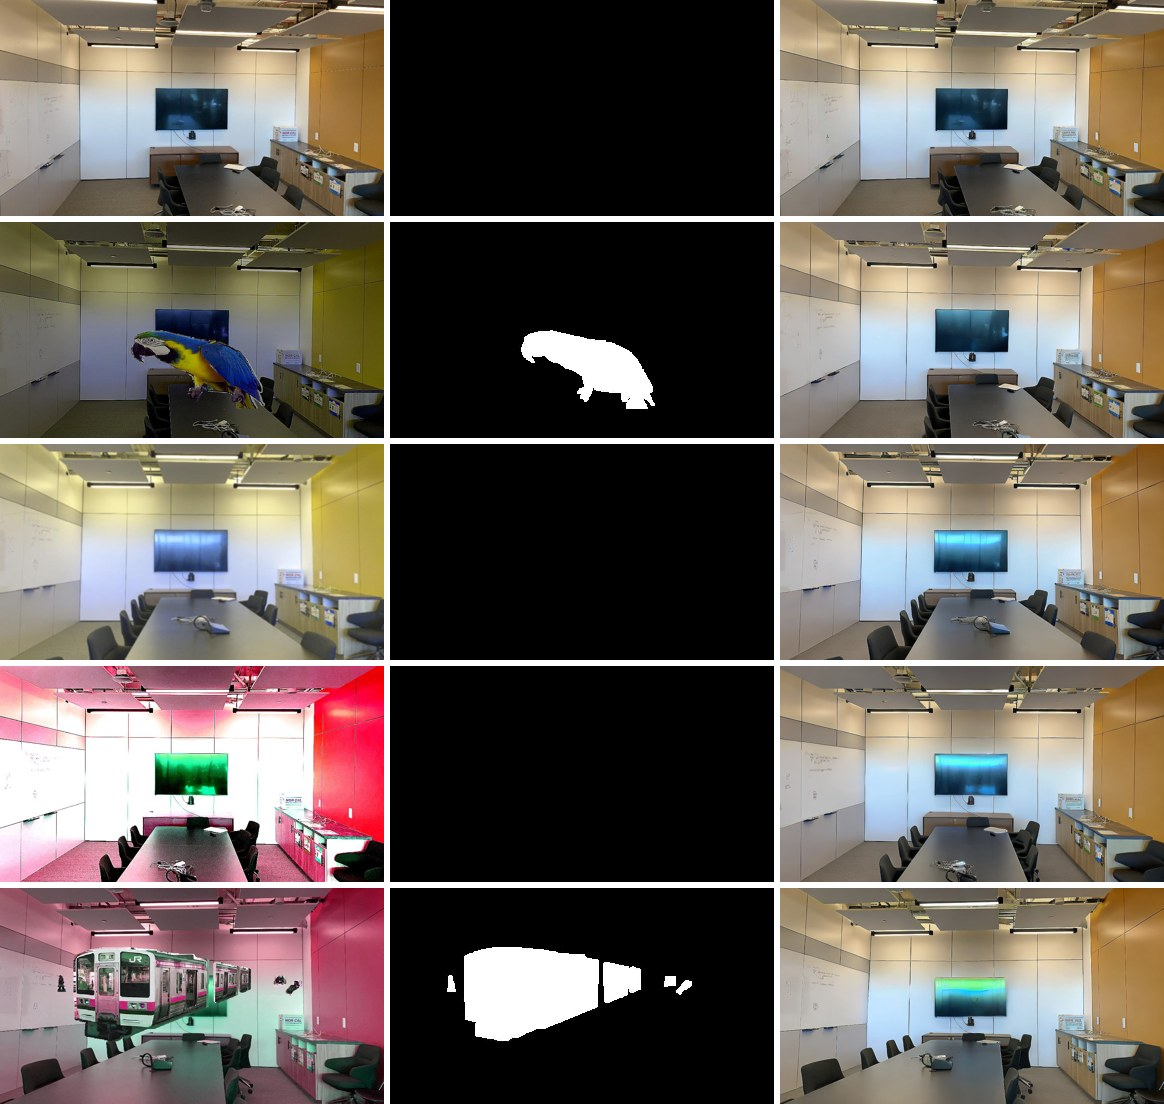
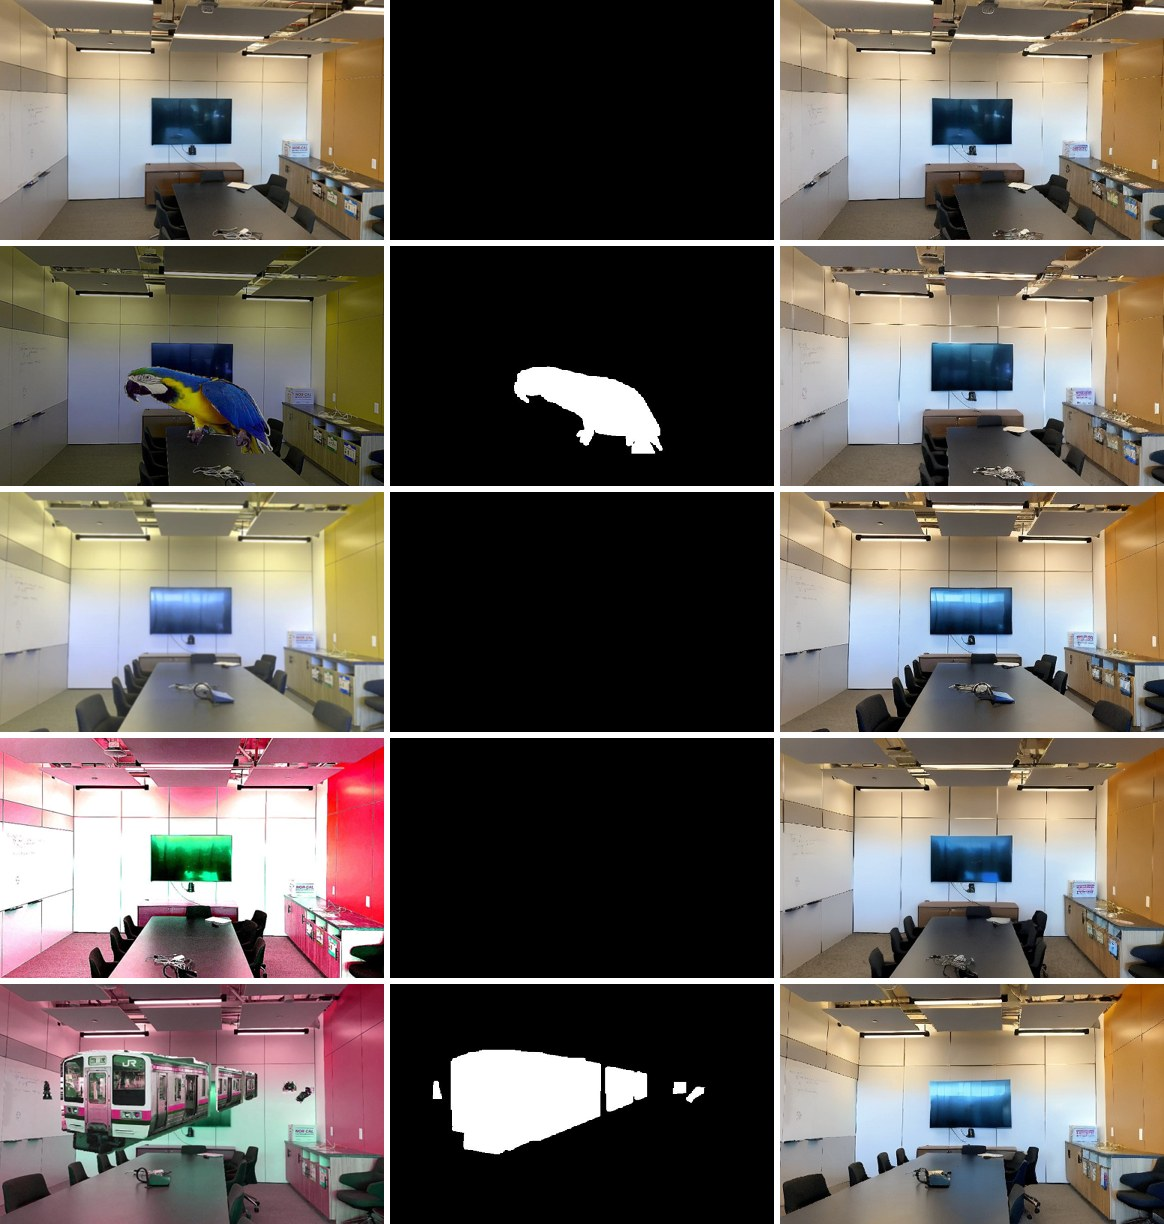
Release the stage-1 (320x512) checkpoint only
Only the stage-1 UniVerse model (320x512) is released on
huggingface.co/TmaKiss/UniVerse; it is now the default model and is
downloaded automatically. The 576x1024 preset remains for stage-2
checkpoints trained with the release code (--model 1024 --ckpt ...).
The readme and the demo figure are updated accordingly.

Claude-Session: https://claude.ai/code/session_017xyDMHhJAyWzsYBCbdkBYV

diff --git a/inference.py b/inference.py
@@ -59,9 +59,10 @@ ROOT = os.path.dirname(os.path.abspath(__file__))
 IMAGE_EXTS = ('.jpg', '.jpeg', '.png', '.bmp', '.tif', '.tiff', '.webp')
 DEFAULT_PROMPT = 'A consistent scene captured using a continuous camera trajectory'
 HF_REPO = 'TmaKiss/UniVerse'  # https://huggingface.co/TmaKiss/UniVerse
+# Only the stage-1 (320x512) model is released; the 576x1024 preset is for your own stage-2 checkpoints.
 MODEL_PRESETS = {
-    '512': dict(config='configs/inference_512.yaml', ckpt='checkpoints/universe_512.ckpt'),
-    '1024': dict(config='configs/inference_1024.yaml', ckpt='checkpoints/universe_1024.ckpt'),
+    '512': dict(config='configs/inference_512.yaml', ckpt='checkpoints/universe_512.ckpt', released=True),
+    '1024': dict(config='configs/inference_1024.yaml', ckpt='checkpoints/universe_1024.ckpt', released=False),
 }
 
 
@@ -739,8 +740,8 @@ def get_parser():
     parser.add_argument('--no_video', action='store_true',
                         help='Do not save the per-iteration videos and restored.mp4.')
     # model
-    parser.add_argument('--model', type=str, default='1024', choices=list(MODEL_PRESETS),
-                        help='576x1024 (stage 2, final) or 320x512 (stage 1, faster) model.')
+    parser.add_argument('--model', type=str, default='512', choices=list(MODEL_PRESETS),
+                        help='320x512 model (released), or 576x1024 for a stage-2 checkpoint you trained (--ckpt).')
     parser.add_argument('--config', type=str, default=None, help='Model config (default: from --model).')
     parser.add_argument('--ckpt', type=str, default=None, help='Model checkpoint (default: from --model).')
     parser.add_argument('--height', type=int, default=None, help='Default: from the config (multiple of 64).')
@@ -829,10 +830,13 @@ def main():
     try:
         import xformers  # noqa: F401
     except ImportError:
-        print('Warning: xformers is not installed; without memory-efficient attention UniVerse-1024 needs '
-              'more than 48 GB of GPU memory (pip install xformers==0.0.16).')
+        print('Warning: xformers is not installed; without memory-efficient attention UniVerse needs more GPU '
+              'memory (about 18 GB instead of 14 GB at 320x512; pip install xformers==0.0.16).')
 
     if not os.path.exists(opts.ckpt):  # released checkpoint, downloaded on first use
+        if not MODEL_PRESETS[opts.model]['released']:
+            raise FileNotFoundError(f'The {opts.model} model is not released: train it (see README, "Training") '
+                                    f'and pass its checkpoint with --ckpt.')
         opts.ckpt = download_checkpoint(opts.ckpt)
 
     os.makedirs(opts.out_dir, exist_ok=True)

diff --git a/readme.md b/readme.md
@@ -69,30 +69,27 @@ pip install -r requirements.txt          # inference (includes xformers 0.0.16)
 pip install -r requirements-train.txt    # optional: training
 ```
 
-xformers (memory-efficient attention) is required for UniVerse-1024 on 48 GB GPUs; the memory figures
-below assume it.
+xformers provides memory-efficient attention; the memory figures below assume it.
 
 ## Checkpoints
 
-UniVerse is one video diffusion model, released at the end of each of its two training stages:
-
 | Model | Resolution | Training | Inference GPU memory | Checkpoint |
 |---|---|---|---|---|
-| UniVerse-1024 (default) | 576 x 1024 | stage 2, 12,000 iterations | ~28 GB | [`universe_1024.ckpt`](https://huggingface.co/TmaKiss/UniVerse/blob/main/universe_1024.ckpt) |
 | UniVerse-512 | 320 x 512 | stage 1, 14,520 iterations | ~14 GB | [`universe_512.ckpt`](https://huggingface.co/TmaKiss/UniVerse/blob/main/universe_512.ckpt) |
 
 The weights are hosted at [huggingface.co/TmaKiss/UniVerse](https://huggingface.co/TmaKiss/UniVerse).
-`inference.py` downloads the checkpoint of the selected model into `checkpoints/` on first use; to
-download them beforehand:
+`inference.py` downloads them into `checkpoints/` on first use; to download them beforehand:
 
 ```bash
-hf download TmaKiss/UniVerse universe_1024.ckpt universe_512.ckpt --local-dir checkpoints
+hf download TmaKiss/UniVerse universe_512.ckpt --local-dir checkpoints
 ```
 
-Each checkpoint (10.4 GB) contains all the weights, including the VAE and the OpenCLIP ViT-H/14
-encoders, so nothing else is downloaded.
+The checkpoint (10.4 GB) contains all the weights, including the VAE and the OpenCLIP ViT-H/14
+encoders, so nothing else is downloaded. The 576 x 1024 model of the second training stage is not
+released; `configs/inference_1024.yaml` (`--model 1024 --ckpt <checkpoint>`) runs a stage-2 model that
+you train yourself (see [Training](#training)).
 
-The models are fine-tuned from ViewCrafter's `ViewCrafter_25_sparse` (Apache-2.0), contain the
+The model is fine-tuned from ViewCrafter's `ViewCrafter_25_sparse` (Apache-2.0), contain the
 OpenCLIP ViT-H/14 weights trained on LAION-2B (MIT), and were trained on
 [DL3DV-10K](https://github.com/DL3DV-10K/Dataset), which is released for non-commercial use
 (CC BY-NC 4.0); please also respect the terms of these sources.
@@ -100,13 +97,11 @@ OpenCLIP ViT-H/14 weights trained on LAION-2B (MIT), and were trained on
 ## Quick start
 
 ```bash
-python inference.py --image_dir data/demo/images --out_dir output/demo                 # UniVerse-1024
-python inference.py --image_dir data/demo/images --out_dir output/demo_512 --model 512  # UniVerse-512
+python inference.py --image_dir data/demo/images --out_dir output/demo
 ```
 
 The first run downloads the checkpoint (10.4 GB). On one L40S, the demo (a single batch) then takes
-about 1.5 min with UniVerse-512 and about 4 min with UniVerse-1024, including about 0.5-2 min to load
-the model.
+about 1.5 min, including about 0.5-1 min to load the model.
 
 ## Restoring your own scene
 
@@ -139,7 +134,7 @@ Main options (`python inference.py -h` lists all of them):
 
 | Option | Default | Description |
 |---|---|---|
-| `--model {1024,512}` | `1024` | model preset (config, checkpoint and resolution) |
+| `--model {512,1024}` | `512` | model preset (config, checkpoint and resolution); 1024 needs your own `--ckpt` |
 | `--ckpt`, `--config` | from `--model` | checkpoint / config |
 | `--mask_dir` | `<scene>/masks` if it exists | inpainting masks |
 | `--colmap`, `--transforms`, `--no_poses` | `<scene>/sparse/0`, else `<scene>/transforms.json` | camera poses |
@@ -160,8 +155,8 @@ output/my_scene/
 └── videos/         # iterXX_{input,inpaint_mask,style_mask,restored}.mp4 for every batch
 ```
 
-The restored images have the model resolution (576 x 1024 or 320 x 512): each input is resized to
-cover it and center-cropped. To reconstruct the scene, run COLMAP again on the restored images, as in
+The restored images have the model resolution (320 x 512): each input is resized to cover it and
+center-cropped. To reconstruct the scene, run COLMAP again on the restored images, as in
 the paper, and train any NeRF or 3D Gaussian Splatting model on them (the paper uses Zip-NeRF with
 GLO).
 
@@ -176,7 +171,7 @@ synthetic fern scene these defaults were slightly more accurate and more consist
 authors' synthetic fern scene (not included; `scripts/synthesize_test_scene.py` builds similar scenes):
 
 ```bash
-python inference.py --image_dir <fern>/images --model 512 --split 14 --style_index 5 --notebook_compat \
+python inference.py --image_dir <fern>/images --split 14 --style_index 5 --notebook_compat \
     --out_dir output/fern_notebook
 ```
 
